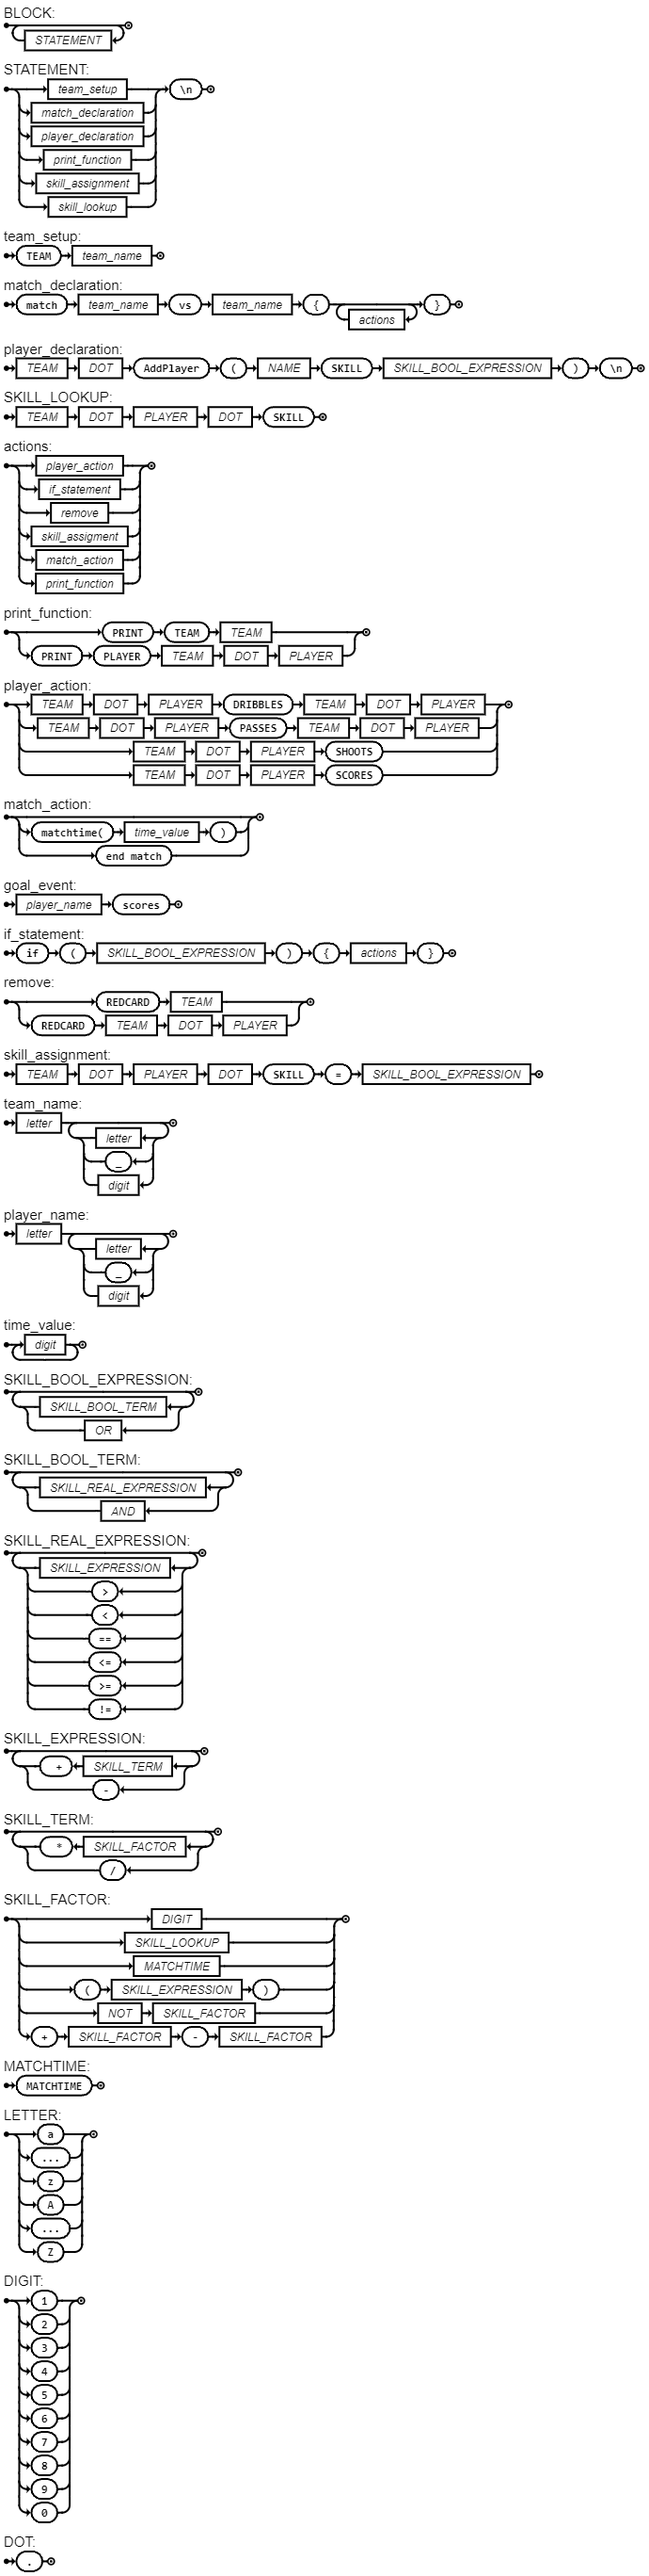
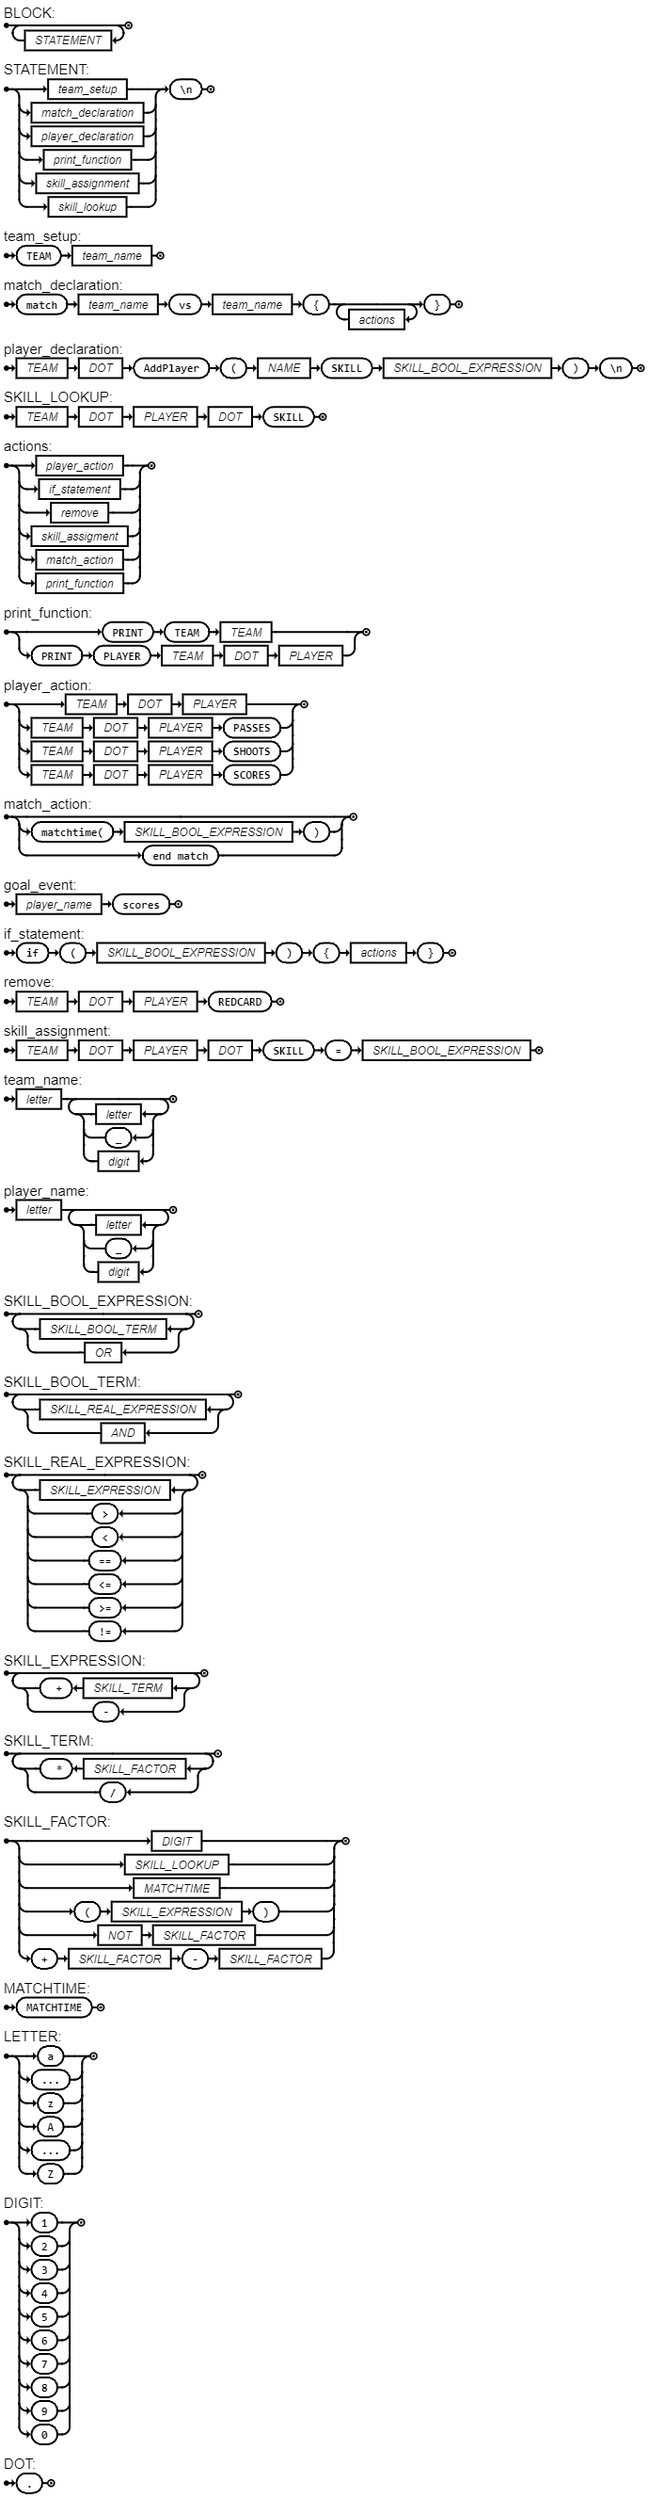
update readme

Changed region(s): [[0.0, 0.0, 1.0, 1.0]]

diff --git a/README.md b/README.md
@@ -2,46 +2,46 @@
 language de futebol
 
 <p>
-BLOCK = { STATEMENT };<br/>
-STATEMENT = ( team_setup | match_declaration | player_declaration | print_function | skill_assignment | skill_lookup), "\n" ;<br/>
-team_setup  = "TEAM", team_name ;<br/>
-match_declaration = "match", team_name, "vs", team_name, "{", { actions}, "}" ;<br/>
-player_declaration = TEAM, DOT, "AddPlayer", "(", NAME, "SKILL", SKILL_BOOL_EXPRESSION, ")", "\n" ;<br/>
-SKILL_LOOKUP = TEAM, DOT, PLAYER,DOT, "SKILL";<br/>
-actions = (player_action, | ball_control  | 
-if_statement  |  remove,  | skill_assigment  |  match_action | print_function) ;<br/>
+BLOCK = { STATEMENT };  <br/>
+STATEMENT = ( team_setup | match_declaration | player_declaration | print_function | skill_assignment | skill_lookup), "\n" ; <br/>
+team_setup  = "TEAM", team_name ; <br/>
+match_declaration = "match", team_name, "vs", team_name, "{", { actions}, "}" ; <br/>
+player_declaration = TEAM, DOT, "AddPlayer", "(", NAME, "SKILL", SKILL_BOOL_EXPRESSION, ")", "\n" ; <br/>
+SKILL_LOOKUP = TEAM, DOT, PLAYER,DOT, "SKILL"; 
+actions = (player_action,  | 
+if_statement  |  remove,  | skill_assigment  |  match_action | print_function) ; <br/>
 
-print_function = "PRINT", "TEAM", TEAM  |   "PRINT", "PLAYER", TEAM ,  DOT , PLAYER  |  "PRINT", "MATCH" , MATCH;<br/>
+print_function = "PRINT", "TEAM", TEAM  |   "PRINT", "PLAYER", TEAM ,  DOT , PLAYER  ;<br/>
 
-player_action= (TEAM, DOT, PLAYER, "DRIBBLES", TEAM, DOT, PLAYER  | TEAM, DOT, PLAYER, "PASSES", TEAM, DOT, PLAYER | 
+player_action= ( TEAM, DOT, PLAYER  | TEAM, DOT, PLAYER, "PASSES"| 
 TEAM, DOT, PLAYER, "SHOOTS" 
 | 
-TEAM, DOT, PLAYER, "SCORES" );<br/>
-ball_control = "BALLCONTROL TRUE" | "BALLCONTROL FALSE"  ;<br/>
-match_action =["matchtime(", time_value ,")"] | ["end match"];<br/>
-goal_event = player_name, "scores" ;<br/>
-if_statement = "if", "(" ,SKILL_BOOL_EXPRESSION, ")","{", actions, "}" ;<br/>
-remove = "REDCARD" ,TEAM | "REDCARD", TEAM ,DOT, PLAYER  ;<br/>
-skill_assignment =TEAM ,DOT, PLAYER , DOT , "SKILL", "=", SKILL_BOOL_EXPRESSION ;<br/>
-team_name = letter, { letter | "_" | digit } ;<br/>
-player_name = letter, { letter | "_" | digit } ;<br/>
-time_value = digit, { digit } ;<br/>
-SKILL_BOOL_EXPRESSION = { SKILL_BOOL_TERM |  OR};<br/>
+TEAM, DOT, PLAYER, "SCORES" ); <br/>
+match_action =["matchtime(", SKILL_BOOL_EXPRESSION,")"] | ["end match"]; <br/>
+goal_event = player_name, "scores" ; <br/>
+if_statement = "if", "(" ,SKILL_BOOL_EXPRESSION, ")","{", actions, "}" ; <br/>
+remove =   TEAM ,DOT, PLAYER , "REDCARD", ; <br/>
+skill_assignment =TEAM ,DOT, PLAYER , DOT , "SKILL", "=", SKILL_BOOL_EXPRESSION ; <br/>
+team_name = letter, { letter | "_" | digit } ; <br/>
+player_name = letter, { letter | "_" | digit } ; <br/>
 
-SKILL_BOOL_TERM = { SKILL_REAL_EXPRESSION|  AND};<br/>
+SKILL_BOOL_EXPRESSION = { SKILL_BOOL_TERM |  OR}; <br/>
 
-SKILL_REAL_EXPRESSION= { SKILL_EXPRESSION|  ">" |  "<" |  "==" |  "<=" |  ">=" |  "!=" };<br/>
+SKILL_BOOL_TERM = { SKILL_REAL_EXPRESSION|  AND}; <br/>
 
-SKILL_EXPRESSION= { SKILL_TERM, " +" |  "-" };<br/>
+SKILL_REAL_EXPRESSION= { SKILL_EXPRESSION|  ">" |  "<" |  "==" |  "<=" |  ">=" |  "!=" }; <br/>
 
-SKILL_TERM= { SKILL_FACTOR, " *" |  "/" };<br/>
+SKILL_EXPRESSION= { SKILL_TERM, " +" |  "-" }; <br/>
 
-
-SKILL_FACTOR= (DIGIT  | SKILL_LOOKUP| "(" , SKILL_EXPRESSION, ")"  | NOT, SKILL_FACTOR|  "+" , SKILL_FACTOR, "-", SKILL_FACTOR);<br/>
+SKILL_TERM= { SKILL_FACTOR, " *" |  "/" }; <br/>
 
 
-LETTER = ( "a" | "..." | "z" | "A" | "..." | "Z" ) ;<br/>
-DIGIT = ( "1" | "2" | "3" | "4" | "5" | "6" | "7" | "8" | "9" | "0" ) ;<br/>
-DOT = "."; <br/>
+SKILL_FACTOR= (DIGIT  | SKILL_LOOKUP| MATCHTIME |"(" , SKILL_EXPRESSION, ")"  | NOT, SKILL_FACTOR|  "+" , SKILL_FACTOR, "-", SKILL_FACTOR); <br/>
+
+MATCHTIME= "MATCHTIME";<br/>
+
+LETTER = ( "a" | "..." | "z" | "A" | "..." | "Z" ) ; <br/>
+DIGIT = ( "1" | "2" | "3" | "4" | "5" | "6" | "7" | "8" | "9" | "0" ) ; <br/>
+DOT = ".";  <br/>
 </p>
 <img src="download.png"/>
